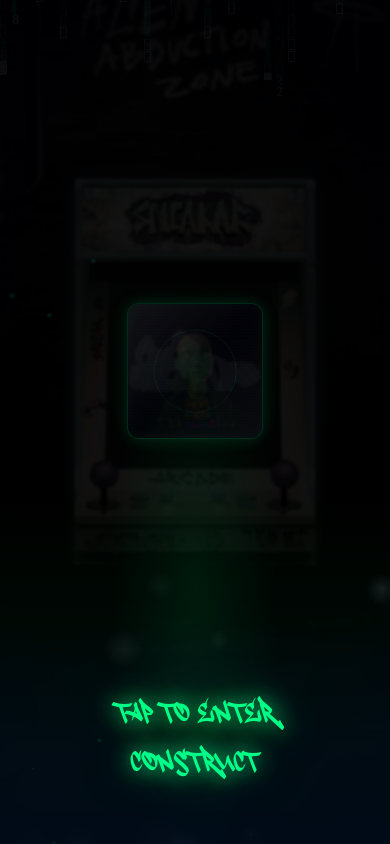
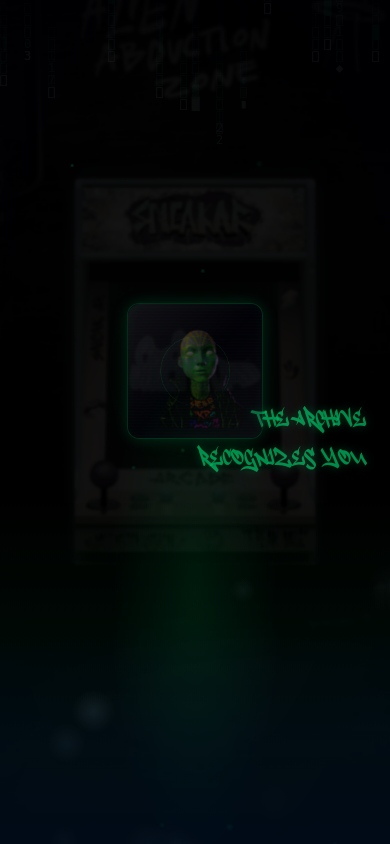
Revert directive CTA: restored pure atmospheric Cheshire phrase loop for dormant phase

Changed region(s): [[0.2769, 0.8009, 0.7385, 0.955], [0.4923, 0.4621, 0.9538, 0.5545], [0.4615, 0.3697, 0.5538, 0.4929]]

diff --git a/artifacts/surrogate-oracle/src/components/SurrogateOracleImmersion.tsx b/artifacts/surrogate-oracle/src/components/SurrogateOracleImmersion.tsx
@@ -81,7 +81,6 @@ const GHOST_TEXTS = [
   'signal integrity: compromised',
   'grid status: severed — local node active',
   'one directive survived',
-  'tap to enter construct',
 ];
 
 // 10 zones spread across the full mobile viewport.
@@ -110,12 +109,10 @@ interface GhostInstance {
   x: number;
   y: number;
   zoneIdx: number;
-  sticky?: boolean;
   rightAlign?: boolean; // when true: x is CSS `right` %, text flows left — prevents right-edge overflow
 }
 
 // Single ghost text — manages its own typing/hold/fade lifecycle
-// When sticky=true: types itself in, holds forever, never fades — used for the CTA
 function GhostText({
   inst,
   onDone,
@@ -131,7 +128,7 @@ function GhostText({
   useEffect(() => { onDoneRef.current = onDone; }, [onDone]);
 
   useEffect(() => {
-    const speed = inst.sticky ? 60 : 52 + Math.random() * 18; // sticky CTA: 60ms/char — deliberate
+    const speed = 52 + Math.random() * 18;
     let c = 0;
     let holdTimer: ReturnType<typeof setTimeout>;
     let fadeTimer: ReturnType<typeof setTimeout>;
@@ -142,56 +139,38 @@ function GhostText({
       if (c >= inst.text.length) {
         clearInterval(typer);
         setPhase('holding');
-        if (!inst.sticky) {
-          // Regular ghost: fade after hold, then signal done to spawner
-          holdTimer = setTimeout(() => {
-            setPhase('fading');
-            // Call onDone after CSS fade (1.4s) + tiny buffer
-            fadeTimer = setTimeout(() => onDoneRef.current(inst.id, inst.zoneIdx), 1500);
-          }, 2800 + Math.random() * 1800); // 2.8–4.6s hold
-        }
-        // sticky: hold forever — onDone never fires, CTA stays on screen
+        // Regular ghost: fade after hold, then signal done to spawner
+        holdTimer = setTimeout(() => {
+          setPhase('fading');
+          // Call onDone after CSS fade (1.4s) + tiny buffer
+          fadeTimer = setTimeout(() => onDoneRef.current(inst.id, inst.zoneIdx), 1500);
+        }, 2800 + Math.random() * 1800); // 2.8–4.6s hold
       }
     }, speed);
 
     return () => { clearInterval(typer); clearTimeout(holdTimer); clearTimeout(fadeTimer); };
   }, []); // eslint-disable-line react-hooks/exhaustive-deps
 
-  const cls = inst.sticky
-    ? `ghost-tx ghost-tx--${phase} ghost-tx--cta`
-    : `ghost-tx ghost-tx--${phase}`;
-
-  const style: React.CSSProperties = inst.sticky
-    ? { left: `${inst.x}%`, top: `${inst.y}%`, transform: 'translateX(-50%)' }
-    : inst.rightAlign
-      ? { right: `${inst.x}%`, top: `${inst.y}%`, textAlign: 'right' }
-      : { left: `${inst.x}%`, top: `${inst.y}%` };
+  const cls = `ghost-tx ghost-tx--${phase}`;
+  const style: React.CSSProperties = inst.rightAlign
+    ? { right: `${inst.x}%`, top: `${inst.y}%`, textAlign: 'right' }
+    : { left: `${inst.x}%`, top: `${inst.y}%` };
 
   return (
-    <div className={cls} style={style} onClick={inst.sticky ? onClick : undefined} role={inst.sticky ? 'button' : undefined}>
+    <div className={cls} style={style} onClick={onClick}>
       {inst.text.slice(0, chars)}
       {phase === 'typing' && <span className="ghost-tx__cur" />}
     </div>
   );
 }
 
-// The CTA text that types itself at the end of the phrase run and stays permanently.
-// Lowercase graffiti style — blends with the transmissions until its permanence marks it.
-const GHOST_CTA_TEXT = 'tap to enter construct';
-// Spawn CTA after this many regular phrases have fully dissipated (first run through)
-const GHOST_CTA_AFTER = 0;
-
 // Spawner — manages the field of ghost transmissions.
-// After GHOST_CTA_AFTER phrases complete, a sticky CTA appears centered on screen
-// and remains permanently as the tap-to-enter invitation.
 function DormantTransmissions({ active, onCtaClick }: { active: boolean; onCtaClick?: () => void }) {
   const [instances, setInstances] = useState<GhostInstance[]>([]);
   const activeZones    = useRef(new Set<number>());
   const textHistory    = useRef<number[]>([]);
   const spawnCount     = useRef(0);
   const spawnTimers    = useRef<ReturnType<typeof setTimeout>[]>([]);
-  const phraseDoneCount = useRef(0);   // how many regular phrases have fully exited
-  const ctaSpawnedRef  = useRef(false); // CTA is one-shot — never re-spawn
 
   const clearAll = () => { spawnTimers.current.forEach(clearTimeout); spawnTimers.current = []; };
 
@@ -209,27 +188,8 @@ function DormantTransmissions({ active, onCtaClick }: { active: boolean; onCtaCl
     return idx;
   };
 
-  const spawnCta = useCallback(() => {
-    if (ctaSpawnedRef.current) return;
-    ctaSpawnedRef.current = true;
-    logStep('GHOST CTA SPAWNED', 'ok');
-    console.log('[Dormant] Spawning sticky CTA:', GHOST_CTA_TEXT);
-    const ctaId = ++_gtId;
-    // Center-bottom of the stage — below the cabinet, above any bottom bar
-    setInstances(prev => [...prev, {
-      id: ctaId,
-      text: GHOST_CTA_TEXT,
-      x: 50,   // left: 50% + translateX(-50%) = centered
-      y: 82,   // 82% down — bottom third of screen, clear of cabinet
-      zoneIdx: -1,
-      sticky: true,
-    }]);
-  }, []);
-
   const spawn = useCallback(() => {
     // ONE at a time — Cheshire Cat: one phrase types, dissipates, then next appears
-    // Stop spawning regular phrases once the CTA has appeared
-    if (ctaSpawnedRef.current) return;
     if (instances.length >= 1) return;
 
     const zoneIdx    = pickZone();
@@ -243,29 +203,17 @@ function DormantTransmissions({ active, onCtaClick }: { active: boolean; onCtaCl
       id, text: GHOST_TEXTS[pickText()], x, y, zoneIdx,
       rightAlign: zone.rightAlign ?? false,
     }]);
-  }, [instances.length, spawnCta]); // eslint-disable-line react-hooks/exhaustive-deps
+  }, [instances.length]); // eslint-disable-line react-hooks/exhaustive-deps
 
   const handleDone = useCallback((id: number, zoneIdx: number) => {
     setInstances(prev => prev.filter(g => g.id !== id));
     activeZones.current.delete(zoneIdx);
 
-    phraseDoneCount.current++;
-
-    // After GHOST_CTA_AFTER phrases have dissipated, spawn the sticky CTA
-    if (phraseDoneCount.current >= GHOST_CTA_AFTER && !ctaSpawnedRef.current) {
-      // Short pause so the last phrase fully fades before the CTA types in
-      const t = setTimeout(spawnCta, 600);
-      spawnTimers.current.push(t);
-      return; // don't spawn another regular phrase
-    }
-
-    if (!ctaSpawnedRef.current) {
-      // Short gap between phrases — the alley breathes, then the next signal leaks
-      const gap = 400 + Math.random() * 600; // 400–1000ms between transmissions
-      const t = setTimeout(spawn, gap);
-      spawnTimers.current.push(t);
-    }
-  }, [spawn, spawnCta]);
+    // Short gap between phrases — the alley breathes, then the next signal leaks
+    const gap = 400 + Math.random() * 600; // 400–1000ms between transmissions
+    const t = setTimeout(spawn, gap);
+    spawnTimers.current.push(t);
+  }, [spawn]);
 
   useEffect(() => {
     if (!active) {
@@ -273,27 +221,19 @@ function DormantTransmissions({ active, onCtaClick }: { active: boolean; onCtaCl
       clearAll();
       activeZones.current.clear();
       spawnCount.current = 0;
-      phraseDoneCount.current = 0;
-      ctaSpawnedRef.current = false;
       return;
-    }
-
-    // If threshold is 0, spawn CTA immediately (after a short settles delay)
-    if (GHOST_CTA_AFTER === 0) {
-      const tc = setTimeout(spawnCta, 1000);
-      spawnTimers.current.push(tc);
     }
 
     // First transmission starts after 1.2s so the alley settles before signal leaks
     const t1 = setTimeout(spawn, 1200);
     spawnTimers.current.push(t1);
     return clearAll;
-  }, [active, spawn, spawnCta]);
+  }, [active, spawn]);
 
   return (
     <>
       {instances.map(inst => (
-        <GhostText key={inst.id} inst={inst} onDone={handleDone} onClick={inst.sticky ? onCtaClick : undefined} />
+        <GhostText key={inst.id} inst={inst} onDone={handleDone} onClick={onCtaClick} />
       ))}
     </>
   );

diff --git a/GEMINI.md b/GEMINI.md
@@ -21,7 +21,7 @@ Canonical knowledge base for the Gemini integration. Update when anything struct
 
 The experience follows a strict "Research -> Strategy -> Execution" flow controlled by the Oracle:
 
-1. **Dormant:** Signal materializes in the alley. Sticky CTA: **"tap to enter construct"** appears immediately.
+1. **Dormant:** Signal materializes in the alley. Atmospheric "Cheshire" phrases type and dissipate in a continuous random loop. Seekers tap the alley intuitively to enter.
 2. **Terminal (Greeting):** Tap triggers immediate **"Greetings... Seeker"** (Charon voice). Lore sequence begins.
 3. **Awakened (The Ask):** Lore finishes. Oracle asks: *"The archive fragment is complete. Now, choose the frequency that is already true."*
 4. **Oracle (The Mirror):** Seeker picks a "knife" question. Full conversation begins.

diff --git a/CLAUDE.md b/CLAUDE.md
@@ -15,7 +15,7 @@ Canonical mandates for the Surrogate project. Follow strictly.
 ## Core Mandates
 
 ### 1. The Seeker's Journey
-- **Dormant:** High-atmosphere alley. Static bridge avatar visible. CTA: **"tap to enter construct"** (immediate).
+- **Dormant:** High-atmosphere alley. Static bridge avatar visible. Continuous random "Cheshire" phrase phasing.
 - **Terminal:** Immediate **"Greetings... Seeker"** (Charon voice). Parallel lore display.
 - **Awakened:** Lore complete → Oracle asks for frequency → Knife cards appear.
 - **Oracle:** Full conversation mode. Viseme-synced face visible.
